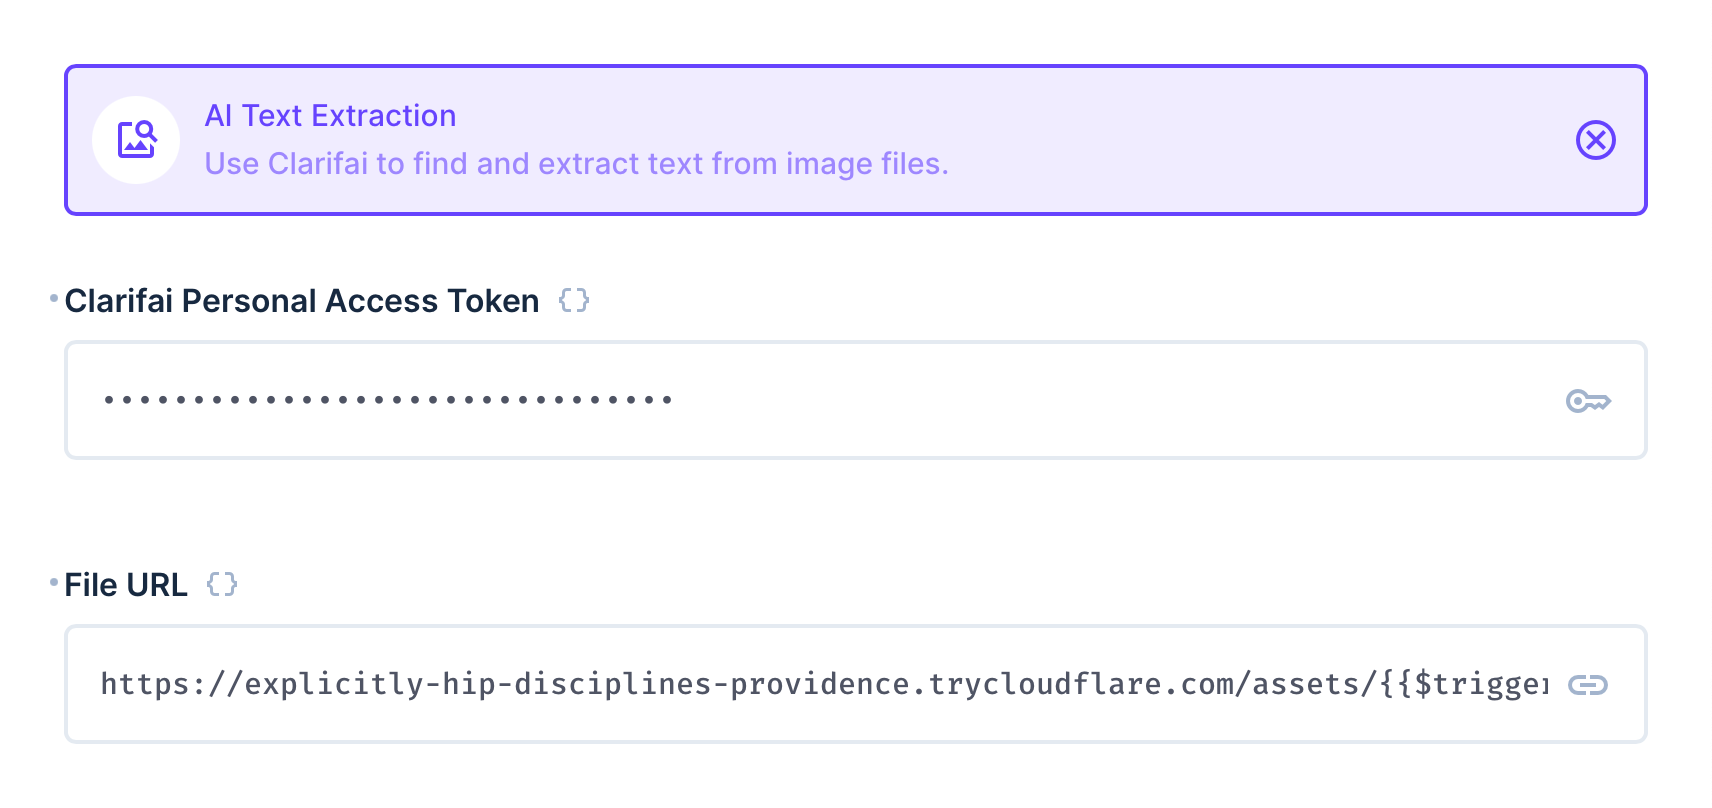
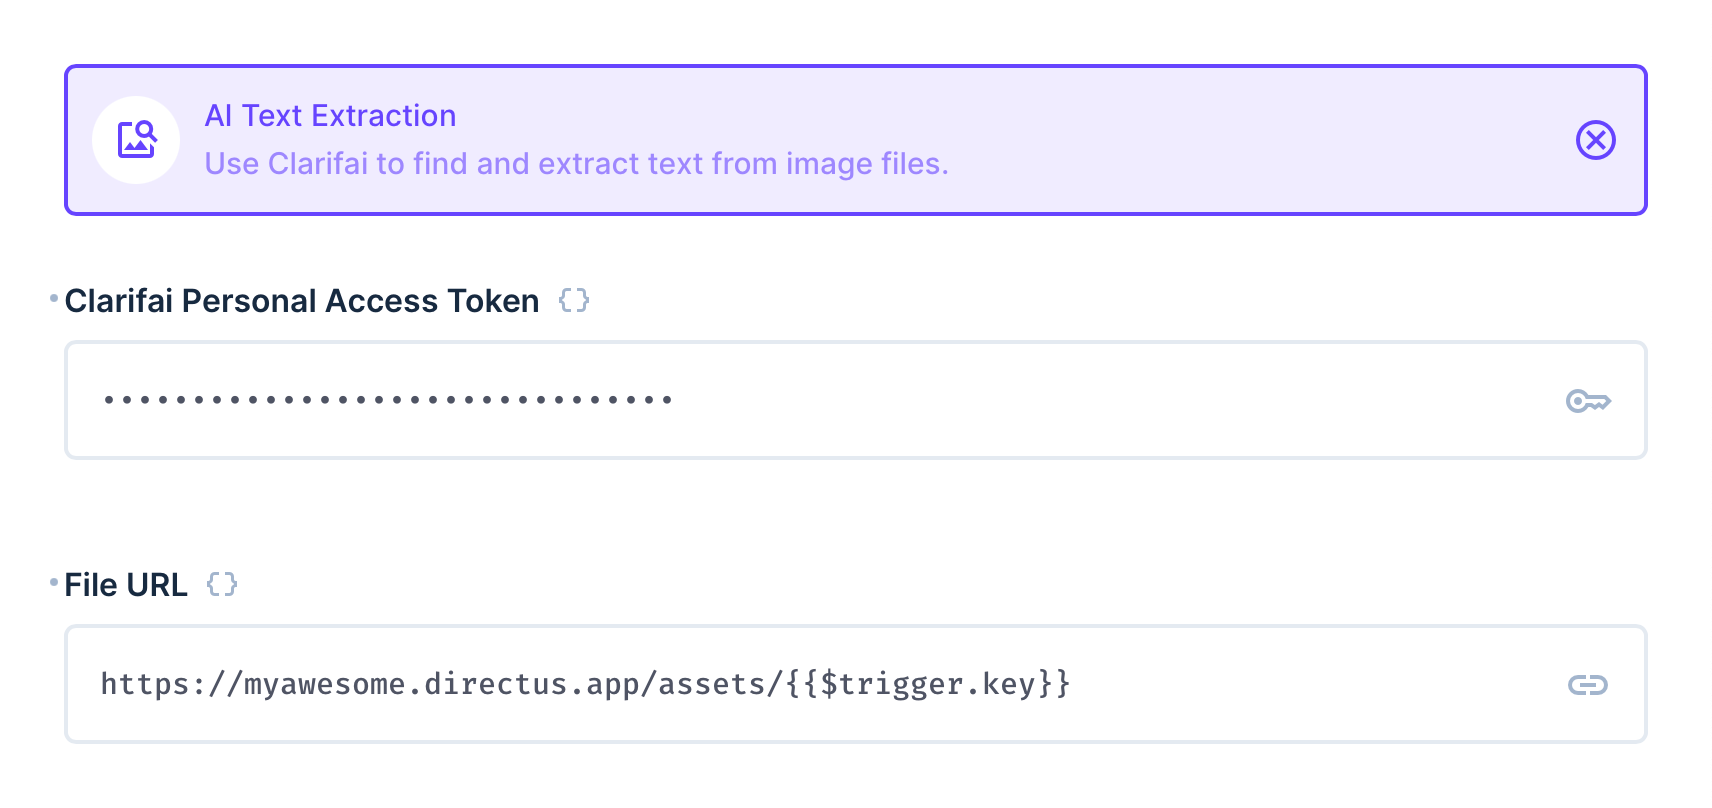
Adjustments for Directus Labs

Changed region(s): [[0.1238, 0.8354, 0.8978, 0.8663]]

diff --git a/src/api.ts b/src/api.ts
@@ -4,7 +4,7 @@ import { request, log } from 'directus:api'
 import type { SandboxOperationConfig } from "directus:api";
 
 const operation: SandboxOperationConfig = {
-	id: 'extension-ai-text-extraction-operation',
+	id: 'directus-labs-ai-text-extraction-operation',
 	handler: async ({ apiKey, url }) => {
 		try {
 			const response = await request(`https://api.clarifai.com/v2/users/clarifai/apps/main/models/ocr-scene-english-paddleocr/versions/46e99516c2d94f58baf2bcaf5a6a53a9/outputs`, {
@@ -25,11 +25,11 @@ const operation: SandboxOperationConfig = {
 					]
 				}
 			})
-			const $raw = (<any>response?.data)?.outputs?.[0]?.data;
-			if ($raw?.regions) {
+			const output = (<any>response?.data)?.outputs?.[0]?.data;
+			if (output?.regions) {
 				return {
-					merged: $raw.regions?.map((region:any) => region.data.text.raw).join("\n"),
-					$raw
+					text: output.regions?.map((region:any) => region.data.text.raw).join("\n"),
+					regions: output.regions
 				}
 			}
 			throw new Error("No text was found in the picture.");

diff --git a/src/app.ts b/src/app.ts
@@ -1,7 +1,7 @@
 import { defineOperationApp } from '@directus/extensions-sdk';
 
 export default defineOperationApp({
-	id: 'extension-ai-text-extraction-operation',
+	id: 'directus-labs-ai-text-extraction-operation',
 	name: 'AI Text Extraction',
 	icon: 'image_search',
 	description: 'Use Clarifai to find and extract text from image files.',
@@ -38,7 +38,7 @@ export default defineOperationApp({
 				options: {
 					iconRight: 'link',
 					font: 'monospace',
-					placeholder: 'https://mydomain/assets/{{$trigger.key}}'
+					placeholder: 'https://my.directus.app/assets/{{$trigger.key}}'
 				}
 			}
 		}

diff --git a/README.md b/README.md
@@ -4,13 +4,11 @@ Extract text from image files within Directus Files with this custom operation, 
 
 ![The AI Text Extraction operation, showing available options.](docs/options.png)
 
-This operation requires two options to be set - first a personal access token from [Clarifai](https://www.clarifai.com) (you can find this in your personal settings under [Security](https://clarifai.com/settings/security)), and a link to the image file. It will return a JSON object, with all the found text in a merged string and the raw result from Clarifai with locations of where each found text was found.
-
-![Sample output](docs/clarifai-pat.png)
-
-You can use the operation to then save the result to a file description or item, or run further automation on the output.
+This operation requires two options to be set - first a personal access token from [Clarifai](https://www.clarifai.com) (you can find this in your personal settings under [Security](https://clarifai.com/settings/security)), and a link to the image file. It will return a JSON object, with all the found text into a single merged string and a list of regions where the texts were found.
 
 ![Sample output](docs/sample-output.png)
+
+You can use the operation to then save the result to a file description or item, or run further automation on the output.
 
 ## Output
 
@@ -18,38 +16,36 @@ This operation outputs a JSON object with the following structure:
 
 ```json
 {
-  "merged": "Some words\nthat are\npicked up when\nuploaded.",
-  "$raw": {
-    "regions": [
-      {
-        "id": "9334dfc6a721577ee4820f766766b982",
-        "region_info": {
-          "bounding_box": {
-            "top_row": 0.059633028,
-            "left_col": 0.22135417,
-            "bottom_row": 0.08944954,
-            "right_col": 0.5026042
-          }
-        },
-        "data": {
-          "text": {
-            "raw": "Some words",
-            "text_info": {
-              "encoding": "UnknownTextEnc"
-            }
-          }
-        },
-        "value": 0.95472854
+  "text": "DIGGING\nTHE RABBIT HOLE",
+  "regions": [
+    {
+      "id": "1e3fcaca88308d377d567966e4ae1dda",
+      "region_info": {
+        "bounding_box": {
+          "top_row": 0.6302083,
+          "left_col": 0.102489024,
+          "bottom_row": 0.703125,
+          "right_col": 0.32796484
+        }
       },
+      "data": {
+        "text": {
+          "raw": "DIGGING",
+          "text_info": {
+            "encoding": "UnknownTextEnc"
+          }
+        }
+      },
+      "value": 0.9584053
+    },
       ...
-    ]
-  }
+  ]
 }
 ```
 
 ## Flow Setup
 
-### Automatically Transcribe New Files
+### Automatically Extract Text From New Files
 
 Create a Flow with an **Event Hook** action trigger and a scope of `files.upload`. Use the AI Text Extraction operation, setting the File URL to `https://your-directus-project-url/assets/{{ $trigger.key }}`, being sure to provide your specific Directus Project URL.
 
@@ -69,7 +65,7 @@ This operation will trigger on every new file upload, regardless of location or 
 }
 ```
 
-### Transcribe On-Demand
+### Extract Text On-Demand
 
 Create a Flow with a **Manual** trigger and select a collection with a file field, which should contain an image file. Set the Location to Item Page Only. To receive the file ID create a **Read Data** operation for the same collection, setting IDs to `{{ $trigger.body.keys[0] }}`.
 
